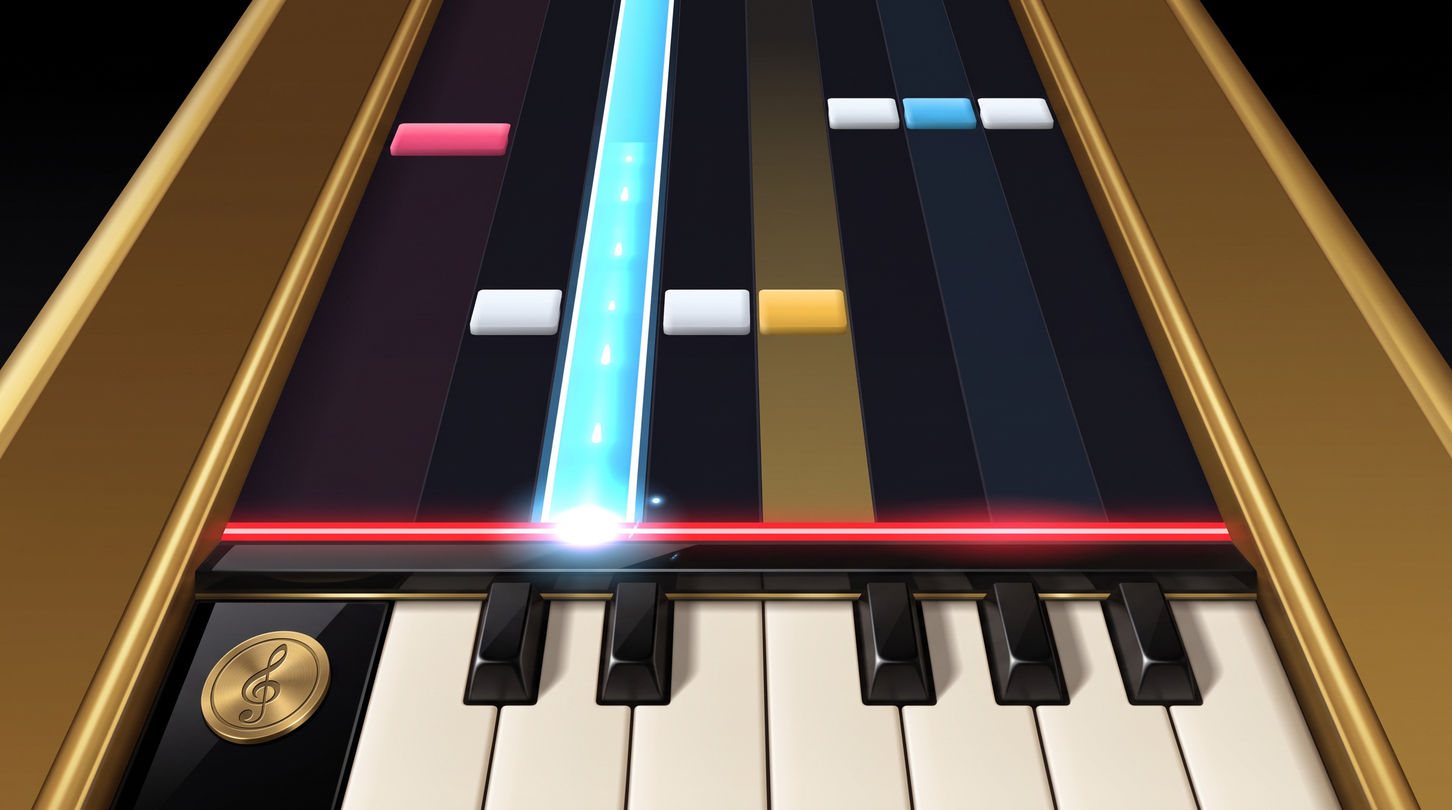
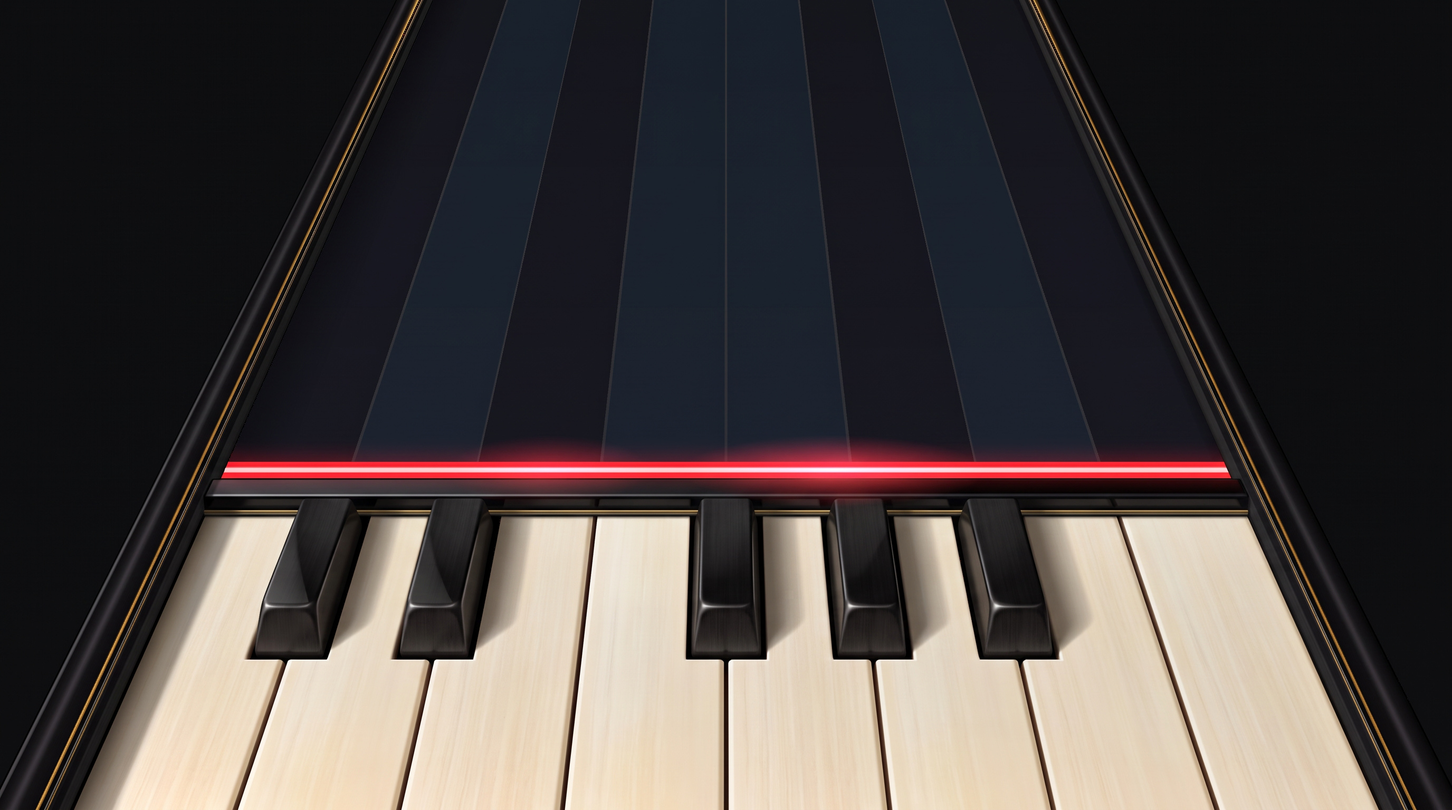
The piano's deck picture is painted again for 8K: eight white keys from wall to wall
The picture was painted over 7K+1S's row (a cheek block with a medallion, then seven keys), a
row no key mode has since that mode went, so the piano's deck was drawn in code everywhere.

- The deck painted again by the image model over this game's 8K frame (SDVX, 16:9) with the
  deck drawn in code: eight ivory keys, the five black keys of an octave, the brass inlay under
  the lip. No medallion: it stood on the scratch lane's cheek block, and 8K's keys fill the deck.
- Laid flat as 2048 x 827, as deep as the screen shows the deck now (it was 2048 x 541). Where the
  deck plane lies on the screen was measured from a frame with a grid of dots laid as the deck's
  picture; the white keys' gaps lie within a pixel of the lanes' boundaries.
- deckArt: the picture is laid on 8K's row only (PICTURE_ROWS); the keys held down and the
  inlay's lights are placed by the new picture (the black keys end at 463 of its rows).
- build_gears.py reads a deck's own inset from deck.json (the piano's 0: laid from wall to wall).
- The other key modes, the plane camera and every other gear are drawn as before.
- Before and after frames: design-mockups/gear-concepts/piano-8k. Docs and provenance updated.

Claude-Session: https://claude.ai/code/session_01NJ81Brr5tCyummEicE23PB

diff --git a/client/src/render/styleArt.test.ts b/client/src/render/styleArt.test.ts
@@ -357,20 +357,46 @@ describe.each(GEAR_STYLES.filter((gear) => !['prism', 'sky', 'fire', 'gpt', 'gem
     expect(Object.keys(gearArtOf(gear, images)).sort()).toEqual(Object.keys(GEAR_PICTURES[gear]).sort());
   });
 
-  it('draws its deck in code on every row the game has: its picture was painted over 7K+1S’s row', () => {
-    // a small preview's, SDVX's, FLAT's, the flattest perspective camera's, the plane camera's
+  it('lays its whole deck from its picture on the perspective cameras, as long along the track as they flatten it', () => {
+    const [pw, ph] = manifest.textures[deck].size;
+    // the picture shows the deck as deep as SDVX's camera does on a 16:9 screen
+    expect([pw, ph]).toEqual([2048, 827]);
+    // a small preview's, SDVX's, FLAT's, the flattest camera it is drawn on
     for (const [room, stretch] of [
       [96, 1.1],
-      [192, 1.25],
+      [240, 1.2],
       [320, 1.25],
       [140, 2],
-      [912, 3.25],
     ]) {
+      const spec = deckSpec(room, stretch);
       const { g, draws } = recorder();
-      platePaintOf(style, images)(g, deckSpec(room, stretch));
-      expect(draws, `${room}`).toEqual([]);
+      platePaintOf(style, images)(g, spec);
+      // the picture alone: nothing drawn over it
+      expect(draws.map((d) => d.id).every((id) => id === deck), `${room}`).toBe(true);
+      const [whole, ...rest] = draws;
+      expect([whole.x, whole.y, whole.w]).toEqual([0, 0, spec.width]);
+      // painted from SDVX's camera on a 16:9 screen (a 1.2 stretch): longer on a camera flattening it more
+      expect(whole.h / whole.w).toBeCloseTo(((ph / pw) * stretch) / 1.2, 9);
+      // the keys run on in the picture's last row where the screen shows more of them
+      if (whole.h < spec.depth) {
+        expect(rest).toHaveLength(1);
+        expect([rest[0].sy, rest[0].sh, rest[0].x, rest[0].w]).toEqual([ph - 1, 1, 0, spec.width]);
+        expect(rest[0].y).toBeCloseTo(whole.h, 9);
+        expect(rest[0].y + rest[0].h).toBeCloseTo(spec.depth, 9);
+      } else expect(rest).toEqual([]);
     }
-    expect(deck).toBe(`${gear}/deck`);
+    // the plane camera sees the deck from too far off the angle it was painted from: there it is drawn in code
+    const plane = recorder();
+    platePaintOf(style, images)(plane.g, deckSpec(912, 3.25));
+    expect(plane.draws).toEqual([]);
+    // and so is a row of lanes it was not painted over (4K's four keys), on any camera
+    const four = recorder();
+    platePaintOf(style, images)(four.g, { ...deckSpec(240, 1.2), lanes: (['white', 'other', 'other', 'white'] as const).map((kind, i) => ({ left: (i * 8 * 73.65) / 4, width: (8 * 73.65) / 4, kind })) });
+    expect(four.draws).toEqual([]);
+    // without its picture the same gear is drawn in code
+    const code = recorder();
+    platePaintOf(style, {})(code.g, deckSpec(240, 1.2));
+    expect(code.draws).toEqual([]);
   });
 
   it('frames the track in its own frame, as wide as it is, with a look of its own in FEVER', () => {

diff --git a/client/src/render/deckArt.test.ts b/client/src/render/deckArt.test.ts
@@ -190,7 +190,7 @@ describe('the decks of the gears a player picks', () => {
         expect(keys.map((k) => k.lane)).toEqual([0, 1, 2, 3, 4, 5, 6, 7]);
         // where the keys start: under the plate's lip, or as the picture drew them (26 of its 2048 px, laid as long as the camera flattens it)
         const top = pictured ? ((26 * s.width) / 2048) * (stretch / 1.2) : 3.2 * stretch + 1.2;
-        const blackEnd = pictured ? ((299 * s.width) / 2048) * (stretch / 1.2) : top - 0.6 + (room - top) * 0.58;
+        const blackEnd = pictured ? ((463 * s.width) / 2048) * (stretch / 1.2) : top - 0.6 + (room - top) * 0.58;
         keys.forEach((k, i) => {
           const lane = s.lanes[k.lane];
           expect(k.box.x).toBeCloseTo(lane.left + 0.55, 9);
@@ -620,17 +620,19 @@ describe('the decks of the gears a player picks', () => {
     expect(level).toBeLessThan(0.01);
   });
 
-  it('lays a deck picture only where it was painted for: a camera near its angle, and PIANO’s on no row the game has (it was painted for 7K+1S)', () => {
-    const deck = { width: 2048, height: 541 } as Picture;
+  it('lays a deck picture only where it was painted for: a camera near its angle, and PIANO’s only on 8K’s row of eight keys', () => {
+    const deck = { width: 2048, height: 827 } as Picture;
     for (const gear of GEAR_STYLES) {
-      for (const mode of ['4K', '5K', '8K', '6K+FX'] as KeyModeId[]) {
-        const s = spec(155.55, 1.2, mode);
-        expect(deckFromPicture(gear, s, { deck }), `${gear} ${mode}`).toBe(gear !== 'piano');
+      for (const mode of ['4K', '4K+FX', '5K', '6K', '6K+FX', '8K'] as KeyModeId[]) {
+        const s = spec(240, 1.2, mode);
+        expect(deckFromPicture(gear, s, { deck }), `${gear} ${mode}`).toBe(gear !== 'piano' || mode === '8K');
         expect(deckFromPicture(gear, s, {}), `${gear} ${mode} without its picture`).toBe(false);
         expect(deckFromPicture(gear, spec(912, DECK_PICTURE_FLATTEST + 0.1, mode), { deck }), `${gear} ${mode} on the plane camera`).toBe(false);
       }
       // side lanes laid over the keys: the six key lanes share the deck, not the picture's row
-      expect(deckFromPicture(gear, { ...spec(155.55, 1.2, '6K+FX'), lanes: deckLanes('6K+FX', 'half') }, { deck })).toBe(gear !== 'piano');
+      expect(deckFromPicture(gear, { ...spec(240, 1.2, '6K+FX'), lanes: deckLanes('6K+FX', 'half') }, { deck })).toBe(gear !== 'piano');
+      // 6K+FX with a place for each side lane has eight lanes too, two of them cheek blocks: not the picture's row
+      expect(deckLanes('6K+FX')).toHaveLength(8);
     }
   });
 

diff --git a/client/src/render/deckArt.ts b/client/src/render/deckArt.ts
@@ -744,7 +744,7 @@ export interface DeckKey {
 }
 
 /** Where PIANO's deck picture has its keys (px of the picture, `width` across): the white keys from under the lip, the black keys' near ends (build_gears.py lays it flat). */
-const PIANO_PICTURE_KEYS = { width: 2048, top: 26, blackEnd: 299 } as const;
+const PIANO_PICTURE_KEYS = { width: 2048, top: 26, blackEnd: 463 } as const;
 
 /**
  * The keys of `style`'s deck that go down with their lanes (none but PIANO's white keys), where the
@@ -3242,8 +3242,8 @@ export const DECK_PICTURE_FLATTEST = 2;
  * keys): its picture is laid only on a deck whose lanes are those, any other row drawn in code.
  */
 const PICTURE_ROWS: Partial<Record<GearStyle, (s: Pick<DeckSpec, 'lanes' | 'sides'>) => boolean>> = {
-  // its picture was painted over 7K+1S's row (the scratch lane's cheek block, then seven white keys), a row no key mode has
-  piano: () => false,
+  // 8K: eight white keys from wall to wall
+  piano: (s) => s.sides.length === 0 && s.lanes.length === 8 && s.lanes.every((l) => !l.side),
 };
 
 /** Whether a gear's deck is laid from its picture: one loaded, a camera near the picture's angle, and a row of lanes it was painted for. */

diff --git a/client/src/render/gearLights.test.ts b/client/src/render/gearLights.test.ts
@@ -2,7 +2,7 @@ import { describe, expect, it } from 'vitest';
 import { GEAR_STYLES, paintDeck, PANEL_MARKS, type DeckMark, type DeckSpec } from './deckArt';
 import { beatClock, DECK_PICTURE_PX, GEAR_LIGHTS, type BeatClock } from './gearLights';
 
-/** The deck pictures' rows (2048 across, the SDVX 16:9 room: build_gears.py). */
+/** The rows every deck's lights lie in (deck picture px, 2048 across: the shallowest deck's picture has as many). */
 const PICTURE_ROWS = 541;
 
 /** A 2D context that takes every call and does nothing (a paint's marks are what is read). */

diff --git a/scripts/assets/build_gears.py b/scripts/assets/build_gears.py
@@ -192,13 +192,15 @@ def cut_keyed(a: np.ndarray, size: int) -> np.ndarray:
 
 def deck_flat(src: Path, meta: dict, width_px: int = 2048, inset: float = 1.5) -> np.ndarray:
     """A gear's deck laid flat from its generation (see the module's doc): `width_px` texels across the
-    deck (`meta["width"]` plane px, sampled `inset` plane px clear of the walls' foot), as many along it
-    as `meta["room"]` plane px down from the deck's top edge (`meta["top"]` under the judge line) take;
-    `meta["h"]`: row-major 3×3 homography from deck plane px (across from the track's middle, toward
-    the camera from the judge line) to the generation's px."""
+    deck (`meta["width"]` plane px, sampled `inset` plane px clear of the walls' foot; `meta["inset"]`
+    where the deck has its own: the piano's 0, its keys' gaps lying on the lanes' boundaries from wall
+    to wall), as many along it as `meta["room"]` plane px down from the deck's top edge (`meta["top"]`
+    under the judge line) take; `meta["h"]`: row-major 3×3 homography from deck plane px (across from
+    the track's middle, toward the camera from the judge line) to the generation's px."""
     img = load(src)
     h = np.array(meta["h"], dtype=np.float64).reshape(3, 3)
     width, top, room = meta["width"], meta["top"], meta["room"]
+    inset = meta.get("inset", inset)
     k = width_px / width
     rows = int(round(room * k))
     u = (np.arange(width_px) + 0.5) / k

diff --git a/README.md b/README.md
@@ -58,7 +58,7 @@
 - [x] **6키 ELITE를 플레이어 자리에서** — 구간마다 한 악기 줄기(드럼 · 베이스 · 선율)를 따르고(4마디 안에서 키음의 악기가 바뀌지 않게; 선율 아래 정박의 킥은 보조), 음악이 치는 첫 박에는 꼭 노트를 두며, 롱노트는 드럼 소리 · 다시 치는 소리 · 잔향 위에 두지 않고 손마다 하나씩. BMS 60곡 6K ELITE에서 4마디 창의 우세 악기 몫 0.57 → 0.73(사람 0.77), 첫 박 노트 0.86 → 0.93(사람 0.90), 곡당 롱노트 30 → 6(동시 1개 93%).
 - [x] **로딩 시간 줄이기** — 결과(분석 · 채보 · 스템)는 바이트 단위로 그대로 두고, 템포 맞춤을 한 번에, 분석 단계를 나란히, 업로드한 오디오로 분석을 바로 시작, 채보를 작업 프로세스에서 난이도끼리 나란히(분석이 끝나면 마지막 키 모드로 미리), 스템 파일을 나란히 씀. 4분 곡(4코어)을 올린 뒤 곡 준비 6.2 → 3.1초, 고른 난이도 채보 10.6 → 5.5초, 다섯 난이도 레벨 17.5 → 5.7초, 키음 플레이 준비 19.5 → 7.9초(`docs/PATTERN_DESIGN.md` 89장)
 - [x] **스템 분리기 BS-RoFormer SW (GPU)** — GPU가 있으면 스템 분리를 Demucs 6스템 대신 BS-RoFormer SW로 함(공개 점수로 기타 SDR 5.22 → 9.05dB). Windows ML판은 CUDA 없이 ONNX Runtime DirectML로 DirectX 12 GPU(전용 메모리 2GB 이상)에서 돌리고, GPU가 없거나 실패하면 Demucs로. 가중치는 비상업 라이선스(`docs/PATTERN_DESIGN.md` 97 · 98장)
-- [x] **7K+1S 모드 · 스크래치 레인 없앰** (2026-11-17) — 사용자의 결정으로 7K+1S 모드와 스크래치 레인을 없앰. 남은 키 모드는 4K · 4K+FX · 5K · 6K · 6K+FX · 8K. BMS·bmson 가져오기는 스크래치 없는 5키 채보만(7키 채보와 스크래치가 있는 채보는 거절), 내보내기는 5K만, osu!mania 7키는 거절. 저장돼 있던 7K+1S 채보와 기록은 디스크에 그대로 두되 목록에 나오지 않음(선곡 화면에 "7K+1S 채보 N개 · 플레이 불가" 칩). 스크래치 노트를 그리던 코드와 노트 그림의 스크래치 줄도 같은 날 지움. 기어 그림의 스크래치 부분(피아노의 메달과 7K+1S에 맞춰 그린 받침 그림)은 쓰이지 않는 채로 남아 있음
+- [x] **7K+1S 모드 · 스크래치 레인 없앰** (2026-11-17) — 사용자의 결정으로 7K+1S 모드와 스크래치 레인을 없앰. 남은 키 모드는 4K · 4K+FX · 5K · 6K · 6K+FX · 8K. BMS·bmson 가져오기는 스크래치 없는 5키 채보만(7키 채보와 스크래치가 있는 채보는 거절), 내보내기는 5K만, osu!mania 7키는 거절. 저장돼 있던 7K+1S 채보와 기록은 디스크에 그대로 두되 목록에 나오지 않음(선곡 화면에 "7K+1S 채보 N개 · 플레이 불가" 칩). 스크래치 노트를 그리던 코드와 노트 그림의 스크래치 줄도 같은 날 지움. 기어 쪽의 스크래치 부분(피아노의 높은음자리표 메달과 그 불빛, 아쿠아 건반의 분홍 줄)도 같은 날 지웠고, 7K+1S 줄에 맞춰 그렸던 피아노의 받침 그림은 8K 줄(흰 건반 여덟)에 맞춰 다시 그림
 
 ## 준비물
 
@@ -161,7 +161,7 @@ cd desktop && npm install && npm start   # 개발용: 저장소의 Python 서버
 - **키음**(설정, 기본 켬): 생성 채보도 노트마다 소리가 붙습니다. 노트가 따르는 악기(스템)를 노트부터 그 악기의 다음 노트까지 잘라 그 노트의 키음으로 쓰고, 배경음에서는 그 부분을 뺍니다. 치면 그 소리가 나고 놓치면 빠지며, 전부 맞히면 원곡이 그대로 이어집니다(DJMAX처럼). 키음은 원곡의 그 악기보다 1.2배 크게 나서 친 소리가 곡 위로 조금 드러나고, 그렇게 커진 소리가 출력 한계를 넘는 순간은 출력 직전의 리미터가 부드럽게 눌러 깨지지 않게 합니다(0.9까지는 그대로, 지연 없음). 노트가 없을 때 누르면(고스트 노트) 그 레인의 다음 노트 소리 앞부분이 곡 위에 짧게 납니다. 노트의 10% 이상이 따르는 악기만 키음이 되고(곡 정보·도구 → 채보의 악기 비율에 표시), 나머지는 배경음에 남습니다. 스템은 분석이 끝난 뒤 백그라운드에서 나누어 저장하므로(4분 곡 4코어에서 약 7초, 곡당 디스크 약 100MB) 분석 직후 바로 플레이하면 처음 한 번은 기다릴 수 있습니다. 연습 모드의 재생 속도에서도 함께 스트레치됩니다.
 - **배경**: 흐린 앨범아트가 깔립니다. 선곡 화면의 커버 왼쪽 아래 **배경 영상**(V)에서 mp4·webm 영상을 고르거나, **유튜브 링크**를 눌러 나오는 칸에 주소를 붙여 넣고 **등록**하면 배경 영상(BGA)이 되어 소리 없이 곡 시간에 맞춰 재생하고, 같은 곳의 **영상 싱크**(←→ 10ms, Shift+←→ 100ms)로 영상을 곡에 맞출 수 있습니다. 유튜브 영상은 내려받지 않고 유튜브 플레이어로 재생하므로 인터넷이 필요하고, 퍼가기를 막은 영상은 나오지 않으며, 광고가 먼저 나올 수 있습니다. 배경 밝기와 BGA는 설정 → 연출·배경에서 바꿉니다.
 - **카메라 연출**: 에너지가 크게 오르는 곳(드롭·후렴 시작)에서 줌 펄스, 에너지가 높은 구간마다 트랙이 좌우로 번갈아 기울어집니다. 줌과 기울기는 판정선 가운데를 중심으로 걸려 판정선은 제자리에 있고, 콤보·판정 글자도 트랙과 같이 기울고 움직입니다. 설정에서 세기를 0–100%로 조절하거나 끌 수 있고, "번쩍임 줄이기"를 켜면 절반으로 줄어듭니다. 판정·노트 시간에는 영향이 없습니다.
-- **트랙과 부위**: 트랙은 한 가지 모습(기본)을 코드로 그립니다(예전의 트랙 스킨 9종 · 모노(고대비) · JSON 사용자 스킨과 설정 → 기어의 색상(색각 보정)은 없앴고, 저장돼 있던 값은 불러올 때 버립니다). 노트 · 사이드 노트는 설정 → **노트**에서, **기어** · 타격 효과는 설정 → **기어**에서 고릅니다(처음에는 기본 노트 · 기본 사이드 노트 · 기본 기어 · 플래시). 판정·콤보 글꼴은 기어를 따르고, 설정 → 기어 → **판정·콤보 글꼴**을 기본으로 하면 기어와 상관없이 흰 장체에 MAX를 하늘색으로 씁니다. **노트**는 기본 막대와 스킨 열둘의 노트입니다(크리스털 · 하늘 · 파이어스타터 · GPT · Gemini · Grok · Claude · 아쿠아 · 스틸 · 레드라인 · 화이트 라인 · 별밤; GPT · Gemini · Grok · Claude는 그 회사의 로고 모양이고 나머지는 막대). 레인 색을 입히는 틴트 그림이라 노트 색상이 그대로 적용됩니다. 기어 없이 노트만 있던 열(질감 막대 크롬 베벨 · 헤어라인 · 유리 · 에나멜 · 펄 · 카본, 메카 챔퍼 · 원형 · 별 4각 · 별 5각)은 없앴고(2026-11-17, 사용자의 결정), 그 전에 피아노 노트도 없앴습니다(골라 둔 값은 기본 노트로; 타격 효과는 모두 남음). 모두 레인 폭에 맞고, 로고 노트는 판정선에서 제 모양으로 보이도록 카메라에 맞춰 트랙 방향으로 늘려 그립니다. 노트와 롱노트는 두께가 있는 입체로 그려(윗면 아래로 옆면이 보이고, 왼쪽 위에서 오는 빛에 옆면은 아래로 갈수록 어둡고 왼쪽이 조금 밝음) 기어처럼 판정선 위를 미끄러져 오는 물건으로 보이고, 기본 노트는 윗면에 광택과 밝은 앞 모서리가, 기본 롱노트는 왼쪽이 밝은 둥근 막대 음영이 있습니다(원근 카메라에서만 옆면이 보이고, 위에서 내려다보는 평면 카메라에서는 윗면만). **롱노트**는 몸통만 그리고 시작·끝에 단노트를 두지 않습니다. 노트마다 제 롱노트의 끝 모양으로 닫습니다(로고 노트 넷은 끝이 둥근 캡슐). 판정선은 어느 기어에서나 같은 자리(화면 높이의 72%)의 굵은 붉은 선(16px, 밝은 심과 위아래로 퍼지는 붉은 빛)이고, 판정 순간 노트의 가운데가 판정선 가운데에 옵니다. DJMAX처럼 기어 받침은 판정선보다 조금 아래(40px)에서 시작하고 그 사이로 레인이 이어져, 놓친 노트는 판정선을 지나 받침 밑으로 사라집니다. 평면 카메라처럼 트랙을 눌러 보이는 카메라에서도 판정선과 그 간격은 같은 두께로 보입니다. 판정선 위치를 올리면 판정선만 올라가고 기어는 화면 아래 제자리에 그대로 있으며, 올라간 판정선과 기어 사이는 노트 등장 위치와 같은 커버로 덮입니다. −20%로 내리면 판정선이 기어에 붙습니다. **기어**는 이름 붙일 수 있는 사물 하나로, 판정선 아래 받침, 트랙의 좌우 테두리(트랙 끝부터 기어 아래까지, 기어마다 제 폭과 높이), 게이지 · 점수판 하우징 · 숫자 글꼴을 함께 정합니다. 테두리는 트랙 옆에 선 벽이라 레인 쪽 안쪽 면이 보이고(왼쪽 위에서 오는 빛에 왼쪽 벽은 그늘, 오른쪽 벽은 밝게), 벽은 레인과 받침에 그림자를 드리웁니다. 받침은 원근 카메라(약한 원근 · SDVX · 강한 원근)에서 기어마다 받침 전체를 게임 카메라의 원근으로 그린 그림 한 장이라, 부품이 받침에서 서 있고 그 그림자가 같은 원근으로 떨어집니다(그린 카메라보다 받침을 납작하게 보는 카메라에서는 그만큼 트랙 방향으로 늘여 깔고, 4:3처럼 받침이 더 보이는 화면에서는 그림의 아래 끝을 이어 그림). 위에서 내려다보는 평면 카메라에서는 받침을 위에서 본 부품 그림과 코드로 그리고, 부품이 판 위에 그림자를 드리웁니다(모두 한 번만 그리는 그림이라 플레이 중 비용은 없음, 평면 카메라에서는 벽의 안쪽 면이 보이지 않음). 레인은 이미 나뉘어 있으므로 받침에 레인마다의 버튼을 두지 않고 그 사물답게 꾸밉니다(누른 레인은 키빔과 타격 효과로 보이고, 받침은 키 모드와 상관없이 같음; 피아노만 건반이 레인을 따르고 누른 레인의 건반이 눌림). 받침과 부품은 그림으로, 재질은 코드로 그립니다: **기본**(그래파이트 테두리에 하늘색 선 하나, 스모크 유리 받침에 유리 조그 원판 · 'GENERATIVE RHYTHM' 각인과 하늘색 빛줄 · 스피커 그릴; 흰 장체 숫자와 하늘색 게이지 칸), **피아노**(그랜드 피아노의 건반 끝: 광택 흑단 래커, 테두리는 피아노의 림처럼 흑단 래커에 레인 쪽 황동 선, 받침은 판정선 쪽 래커 턱의 황동 상감선 바로 밑에서 건반이 시작하고(이름판 없음) 건반 레인마다 상아색 흰 건반 하나 · 그 사이에 옥타브대로 검은 건반(왼쪽 첫 건반을 도로) · 따로 선 사이드 레인 아래는 치크 블록, 키를 누르는 동안 그 레인의 흰 건반이 눌려 내려가 보이고(어두워지며 왼쪽 이웃 건반의 그림자와 오른쪽 틈, 먼 끝은 턱의 그늘; 떼면 곧 올라옴, 오토플레이도 같음); 악보의 셈여림 글씨 같은 보도니 굵은 이탤릭의 상아색 숫자와 황동 밑줄, 상아색 칸 위로 황동인 FORTE 게이지, 점수판은 흑단 판 아래 건반 띠. 받침 그림은 2026-11-17에 없앤 7K+1S에 맞춰 그린 것이라 이제 어느 키 모드에도 깔지 않고, 받침은 언제나 코드로 레인 수만큼 건반을 그림). 오락실 기체 · 빈티지 리시버 · 나전칠기 · 커스텀 키보드 · 레이싱 휠 · 우주선 계기판 · 달 기어는 없앴습니다(2026-11-13, 사용자의 결정: 예전 기어 가운데 피아노만 남김; 골라 둔 값은 기본 기어로). 피버 때는 테두리의 불빛이 켜집니다(기본은 하늘색 선, 피아노는 황동 선; 받침은 그대로). 기어는 곡의 마디와 박자에 맞춰 움직입니다: 판정선 레이저의 빛이 흔들리며 빛의 두께가 일렁이고 밝은 점 둘이 선을 따라 서로 반대쪽으로 지나가며(선의 굵기와 자리는 그대로), 마디마다 빛이 테두리를 따라 트랙 끝에서 기어 쪽으로 지나갑니다(테두리의 FEVER 불빛을 띠로 보여 줌). 받침에서는 기본의 조그 링 · 빛줄 · 스피커 구멍(센박에), 피아노의 황동 상감선(마디마다 빛이 지나가고 FEVER 때 따뜻하게 빛남) · 메달(박자에 은은하게, 마디 첫 박에 반짝임)이 켜집니다(피아노의 건반에는 불빛 대신 누른 레인의 건반이 눌림). 받침 그림에 겹친 빛 조각이라 플레이 중 비용은 거의 없습니다(받침은 다시 칠하지 않음). 평면 카메라에서는 코드로 그린 받침의 같은 부품에 켜지고, 번쩍임 줄이기를 켜면 깜빡임 없이 천천히 은은하게만 움직입니다. 롱노트는 늘 고른 노트의 것이고, 사이드 노트는 기본(비치는 막대)과 도트 매트릭스 중에서 고릅니다. **컨셉 세트** 다섯은 타격 효과만 남았습니다(세트의 노트 · 롱노트 · 사이드 막대는 없앰). **메카 섬광**은 흰 섬광과 금속 파편·불똥이 판정선에서 사방으로 튀고 롱노트를 누르는 동안 용접 불꽃이 사방으로 튑니다. **클럽 링**은 레코드 홈 같은 동심 고리가 판정선을 중심으로 퍼집니다. **크리스털 파편**은 파편과 반짝임이 주로 기어 쪽으로 쏟아집니다. **네온 아크**는 깜빡이는 전기 아크입니다. **피아노 음표**는 음파 고리와 함께 음표가 사방으로 튀어 나가고 롱노트를 누르는 동안 음표가 반짝입니다. 레인 색은 게임이 입히고, 그림을 못 불러오면 코드로 그린 모양으로 대신합니다. 기어는 저마다 한 가지 모습입니다(기어 색은 고르지 않음). 카메라는 따로 고릅니다(설정 → 기어 → 카메라: **평면** · 약한 원근 · SDVX(기본) · 강한 원근). 평면은 원근이 없어 레일이 나란하고 노트가 화면 위에서 아래까지 같은 빠르기로 내려옵니다. 설정의 미리보기 기어에서 바로 보입니다. 레인 색은 설정 → 노트의 노트 색상을 따르고, 기본이면 트랙의 색입니다.
+- **트랙과 부위**: 트랙은 한 가지 모습(기본)을 코드로 그립니다(예전의 트랙 스킨 9종 · 모노(고대비) · JSON 사용자 스킨과 설정 → 기어의 색상(색각 보정)은 없앴고, 저장돼 있던 값은 불러올 때 버립니다). 노트 · 사이드 노트는 설정 → **노트**에서, **기어** · 타격 효과는 설정 → **기어**에서 고릅니다(처음에는 기본 노트 · 기본 사이드 노트 · 기본 기어 · 플래시). 판정·콤보 글꼴은 기어를 따르고, 설정 → 기어 → **판정·콤보 글꼴**을 기본으로 하면 기어와 상관없이 흰 장체에 MAX를 하늘색으로 씁니다. **노트**는 기본 막대와 스킨 열둘의 노트입니다(크리스털 · 하늘 · 파이어스타터 · GPT · Gemini · Grok · Claude · 아쿠아 · 스틸 · 레드라인 · 화이트 라인 · 별밤; GPT · Gemini · Grok · Claude는 그 회사의 로고 모양이고 나머지는 막대). 레인 색을 입히는 틴트 그림이라 노트 색상이 그대로 적용됩니다. 기어 없이 노트만 있던 열(질감 막대 크롬 베벨 · 헤어라인 · 유리 · 에나멜 · 펄 · 카본, 메카 챔퍼 · 원형 · 별 4각 · 별 5각)은 없앴고(2026-11-17, 사용자의 결정), 그 전에 피아노 노트도 없앴습니다(골라 둔 값은 기본 노트로; 타격 효과는 모두 남음). 모두 레인 폭에 맞고, 로고 노트는 판정선에서 제 모양으로 보이도록 카메라에 맞춰 트랙 방향으로 늘려 그립니다. 노트와 롱노트는 두께가 있는 입체로 그려(윗면 아래로 옆면이 보이고, 왼쪽 위에서 오는 빛에 옆면은 아래로 갈수록 어둡고 왼쪽이 조금 밝음) 기어처럼 판정선 위를 미끄러져 오는 물건으로 보이고, 기본 노트는 윗면에 광택과 밝은 앞 모서리가, 기본 롱노트는 왼쪽이 밝은 둥근 막대 음영이 있습니다(원근 카메라에서만 옆면이 보이고, 위에서 내려다보는 평면 카메라에서는 윗면만). **롱노트**는 몸통만 그리고 시작·끝에 단노트를 두지 않습니다. 노트마다 제 롱노트의 끝 모양으로 닫습니다(로고 노트 넷은 끝이 둥근 캡슐). 판정선은 어느 기어에서나 같은 자리(화면 높이의 72%)의 굵은 붉은 선(16px, 밝은 심과 위아래로 퍼지는 붉은 빛)이고, 판정 순간 노트의 가운데가 판정선 가운데에 옵니다. DJMAX처럼 기어 받침은 판정선보다 조금 아래(40px)에서 시작하고 그 사이로 레인이 이어져, 놓친 노트는 판정선을 지나 받침 밑으로 사라집니다. 평면 카메라처럼 트랙을 눌러 보이는 카메라에서도 판정선과 그 간격은 같은 두께로 보입니다. 판정선 위치를 올리면 판정선만 올라가고 기어는 화면 아래 제자리에 그대로 있으며, 올라간 판정선과 기어 사이는 노트 등장 위치와 같은 커버로 덮입니다. −20%로 내리면 판정선이 기어에 붙습니다. **기어**는 이름 붙일 수 있는 사물 하나로, 판정선 아래 받침, 트랙의 좌우 테두리(트랙 끝부터 기어 아래까지, 기어마다 제 폭과 높이), 게이지 · 점수판 하우징 · 숫자 글꼴을 함께 정합니다. 테두리는 트랙 옆에 선 벽이라 레인 쪽 안쪽 면이 보이고(왼쪽 위에서 오는 빛에 왼쪽 벽은 그늘, 오른쪽 벽은 밝게), 벽은 레인과 받침에 그림자를 드리웁니다. 받침은 원근 카메라(약한 원근 · SDVX · 강한 원근)에서 기어마다 받침 전체를 게임 카메라의 원근으로 그린 그림 한 장이라, 부품이 받침에서 서 있고 그 그림자가 같은 원근으로 떨어집니다(그린 카메라보다 받침을 납작하게 보는 카메라에서는 그만큼 트랙 방향으로 늘여 깔고, 4:3처럼 받침이 더 보이는 화면에서는 그림의 아래 끝을 이어 그림). 위에서 내려다보는 평면 카메라에서는 받침을 위에서 본 부품 그림과 코드로 그리고, 부품이 판 위에 그림자를 드리웁니다(모두 한 번만 그리는 그림이라 플레이 중 비용은 없음, 평면 카메라에서는 벽의 안쪽 면이 보이지 않음). 레인은 이미 나뉘어 있으므로 받침에 레인마다의 버튼을 두지 않고 그 사물답게 꾸밉니다(누른 레인은 키빔과 타격 효과로 보이고, 받침은 키 모드와 상관없이 같음; 피아노만 건반이 레인을 따르고 누른 레인의 건반이 눌림). 받침과 부품은 그림으로, 재질은 코드로 그립니다: **기본**(그래파이트 테두리에 하늘색 선 하나, 스모크 유리 받침에 유리 조그 원판 · 'GENERATIVE RHYTHM' 각인과 하늘색 빛줄 · 스피커 그릴; 흰 장체 숫자와 하늘색 게이지 칸), **피아노**(그랜드 피아노의 건반 끝: 광택 흑단 래커, 테두리는 피아노의 림처럼 흑단 래커에 레인 쪽 황동 선, 받침은 판정선 쪽 래커 턱의 황동 상감선 바로 밑에서 건반이 시작하고(이름판 없음) 건반 레인마다 상아색 흰 건반 하나 · 그 사이에 옥타브대로 검은 건반(왼쪽 첫 건반을 도로) · 따로 선 사이드 레인 아래는 치크 블록, 키를 누르는 동안 그 레인의 흰 건반이 눌려 내려가 보이고(어두워지며 왼쪽 이웃 건반의 그림자와 오른쪽 틈, 먼 끝은 턱의 그늘; 떼면 곧 올라옴, 오토플레이도 같음), 8K에서는 원근 카메라(약한 원근 · SDVX · 강한 원근)에서 받침 전체가 게임 카메라로 그린 그림 한 장이며(2026-11-17에 8K의 건반 여덟에 맞춰 다시 그림: 입체로 선 검은 건반과 그림자, 흰 건반의 틈은 레인 경계 위) 다른 키 모드와 평면 카메라에서는 코드로 레인 수만큼 건반을 그림; 악보의 셈여림 글씨 같은 보도니 굵은 이탤릭의 상아색 숫자와 황동 밑줄, 상아색 칸 위로 황동인 FORTE 게이지, 점수판은 흑단 판 아래 건반 띠. 받침 그림은 2026-11-17에 없앤 7K+1S에 맞춰 그린 것이라 이제 어느 키 모드에도 깔지 않고, 받침은 언제나 코드로 레인 수만큼 건반을 그림). 오락실 기체 · 빈티지 리시버 · 나전칠기 · 커스텀 키보드 · 레이싱 휠 · 우주선 계기판 · 달 기어는 없앴습니다(2026-11-13, 사용자의 결정: 예전 기어 가운데 피아노만 남김; 골라 둔 값은 기본 기어로). 피버 때는 테두리의 불빛이 켜집니다(기본은 하늘색 선, 피아노는 황동 선; 받침은 그대로). 기어는 곡의 마디와 박자에 맞춰 움직입니다: 판정선 레이저의 빛이 흔들리며 빛의 두께가 일렁이고 밝은 점 둘이 선을 따라 서로 반대쪽으로 지나가며(선의 굵기와 자리는 그대로), 마디마다 빛이 테두리를 따라 트랙 끝에서 기어 쪽으로 지나갑니다(테두리의 FEVER 불빛을 띠로 보여 줌). 받침에서는 기본의 조그 링 · 빛줄 · 스피커 구멍(센박에), 피아노의 황동 상감선(마디마다 빛이 지나가고 FEVER 때 따뜻하게 빛남)이 켜집니다(피아노의 건반에는 불빛 대신 누른 레인의 건반이 눌림). 받침 그림에 겹친 빛 조각이라 플레이 중 비용은 거의 없습니다(받침은 다시 칠하지 않음). 평면 카메라에서는 코드로 그린 받침의 같은 부품에 켜지고, 번쩍임 줄이기를 켜면 깜빡임 없이 천천히 은은하게만 움직입니다. 롱노트는 늘 고른 노트의 것이고, 사이드 노트는 기본(비치는 막대)과 도트 매트릭스 중에서 고릅니다. **컨셉 세트** 다섯은 타격 효과만 남았습니다(세트의 노트 · 롱노트 · 사이드 막대는 없앰). **메카 섬광**은 흰 섬광과 금속 파편·불똥이 판정선에서 사방으로 튀고 롱노트를 누르는 동안 용접 불꽃이 사방으로 튑니다. **클럽 링**은 레코드 홈 같은 동심 고리가 판정선을 중심으로 퍼집니다. **크리스털 파편**은 파편과 반짝임이 주로 기어 쪽으로 쏟아집니다. **네온 아크**는 깜빡이는 전기 아크입니다. **피아노 음표**는 음파 고리와 함께 음표가 사방으로 튀어 나가고 롱노트를 누르는 동안 음표가 반짝입니다. 레인 색은 게임이 입히고, 그림을 못 불러오면 코드로 그린 모양으로 대신합니다. 기어는 저마다 한 가지 모습입니다(기어 색은 고르지 않음). 카메라는 따로 고릅니다(설정 → 기어 → 카메라: **평면** · 약한 원근 · SDVX(기본) · 강한 원근). 평면은 원근이 없어 레일이 나란하고 노트가 화면 위에서 아래까지 같은 빠르기로 내려옵니다. 설정의 미리보기 기어에서 바로 보입니다. 레인 색은 설정 → 노트의 노트 색상을 따르고, 기본이면 트랙의 색입니다.
 - **노트 색**(설정 → 노트, 노트 · 사이드 노트 줄 아래의 **노트 색상** 줄부터): 레인마다 노트 색을 정한 프리셋으로 노트·롱노트·레인 표시등·키 빔·트랙 바닥의 레인 색을 칠합니다. **기본**은 트랙의 기본 색이고, 게임에 든 프리셋은 **K/DA (POP/STARS)**(바이올렛·골드·네온 마젠타·시안), **K/DA (FIRESTARTER)**(스칼렛·아이보리·앰버·핫핑크·오키드), **오로라**(초록·청록·보라), **앰버**(따뜻한 색만, 파란빛 없음: 어두운 방용), **좌우 손**(왼손이 치는 레인은 파랑, 오른손은 주황, 가운데 흰색: 색각 이상이 있어도 구분되는 짝)입니다. 키 모드를 고르고 레인을 ←→로 고른 뒤 색 상자·색상 막대(마우스), HEX(`#rrggbb`), 색상·채도·밝기 줄(키보드·패드, Shift로 크게)로 바꾸면 고르는 동안 미리보기 기어에 바로 보이고, 놓거나 Enter를 누르면 저장됩니다. 기본이나 게임에 든 프리셋의 색을 바꾸면 그 프리셋은 그대로 두고 색을 복사한 **내 프리셋**(내 색 N, 20개까지)에 저장되며, 내 프리셋은 이름을 바꾸거나 지울 수 있습니다(3초 안에 두 번 눌러 삭제). 프리셋은 키 모드마다 레인 색을 따로 가집니다. 에디터의 레인도 같은 색입니다.
 - **타격 효과 크기**(설정 → 연출·배경: 크게 / 보통 / 작게 / 끄기): 타격·롱노트 효과는 판정선을 중심으로 위아래 모두 온전히 그리고, 바깥 레인에서는 레일(기어) 밖으로도 나갑니다(잘리지 않음). 크게는 보통의 1.4배, 작게는 약 1.2레인 폭 이내입니다. 모양은 설정 → 기어 → 타격 효과에서 고르고(처음에는 플래시), 9종 모두 그림으로 그린 플립북입니다: **플래시**(빛줄기 섬광과 판정선을 중심으로 퍼지는 충격파 고리), **플레어**(4방향 별빛과 레인을 가로지르는 렌즈 줄기), **거품**(물보라와 함께 튀어 나간 거품이 하나씩 터짐), **LED 그리드**(판정선을 중심으로 LED 칸에 사각 물결이 퍼짐)와 세트마다 하나(메카 섬광·클럽 링·크리스털 파편·네온 아크·피아노 음표). 롱노트를 누르는 동안은 효과마다 빛이 이어지고(LED 그리드는 판정선 위아래로 레벨 미터처럼 오르내림) 그 빛이 숨 쉬듯 커졌다 작아지며, 콤보가 오를 때마다(1/4박) 빛이 튀어 오르고 작은 타격 효과가 나며(0.18초에 한 번까지), 누르는 롱노트 몸통을 따라 레인 색 빛줄기가 판정선으로 흘러듭니다. 반쪽 덮기 사이드 노트를 치면 반쪽을 가로지르는 빛의 띠(흰 심과 위로 솟는 빛살)와 함께 반쪽 너비의 큰 타격 효과가 나고, 사이드 롱노트를 누르는 동안은 띠와 함께 반쪽 가운데에서 효과가 이어집니다. 번쩍임 줄이기를 켜면 숨쉬기·튀어 오름·콤보마다의 작은 효과는 없고 빛줄기도 흐립니다. 그림을 못 불러오면 코드로 그린 모양(세트의 효과는 플래시)으로 대신합니다.
 - **사이드 노트**(4K+FX · 6K+FX): DJMAX처럼 건반 레인의 절반을 덮는 반투명 막대(**반쪽 덮기**)로 그립니다. 사이드 레인이 폭을 차지하지 않아 건반 레인이 트랙 전체를 쓰고(4K·6K와 같은 자리), 왼쪽 사이드(FXL)는 왼쪽 절반, 오른쪽 사이드(FXR)는 오른쪽 절반을 사이드 레인 색으로 덮으며, 위에 오는 건반 노트는 늘 보입니다. 사이드 타격 효과는 그 절반 폭의 띠(크게면 높게, 작게면 낮게)이고, 누른 사이드는 그 절반 폭의 키빔으로 보입니다(기어 받침에는 표시등이 없음). 그리는 법만 다르고 판정·키·배치·점수·리플레이는 사이드 레인 그대로이며, 에디터는 사이드 노트를 양 끝 레인에 따로 보여 줍니다. 양 끝 좁은 레인에 따로 그리던 **별도 레인** 선택은 없앴습니다. **사이드 노트**(설정 → 노트)를 도트 매트릭스로 하면 LED 점으로 그리고, 노트의 시각에 놓인 줄이 가장 밝습니다.

diff --git a/docs/GEAR_NOTE_FX.md b/docs/GEAR_NOTE_FX.md
@@ -2,7 +2,7 @@
 
 2026-11-11, 브랜치 `claude/gear-notes-fx`. 조사와 사용자의 스킨 지침은 `docs/GEAR_NOTE_FX_RESEARCH.md`(지침은 7절), 시안과 그 출처는 `design-mockups/gear-concepts/`.
 
-2026-11-17에 7K+1S 모드와 스크래치 레인을 없앴습니다(키 모드는 4K · 4K+FX · 5K · 6K · 6K+FX · 8K). 그래서 어느 키 모드에도 스크래치 레인이 없고, 아래 스킨 표의 "스크래치는 …"(스크래치 단노트의 표시, 기어의 스크래치 자리)은 플레이어가 보는 것이 아니라 그때까지의 기록입니다. 스크래치 노트를 그리던 코드(`tintArt.ts`의 `NoteMark` `scratch`와 스킨마다의 스크래치 표시, `styleArt.ts`의 둘째 줄)와 `media/notes` 그림의 스크래치 줄은 같은 날 지웠습니다. 그림은 새로 만들지 않고 `scripts/assets/build_long_notes.py`가 원본 시트에서 건반 단노트만 다시 빌드했고(1024 × 256, 건반 줄은 전과 픽셀까지 같음), 원본 시트(`assets-src/styles/longs/`)에는 스크래치 단노트가 그대로 있습니다. 기어 그림의 스크래치 부분(`deckArt.ts`의 `KeyKind` `scratch`, 피아노의 높은음자리표 메달과 7K+1S 줄에 맞춰 그린 받침 그림)은 쓰이지 않는 채로 남아 있습니다. 스킨마다 한 장이던 7K+1S 스크린샷은 8K로 다시 찍어 파일 이름의 `-7k`를 `-8k`로 바꿨습니다(`44-prism-7k.png`만 그대로). 날짜가 붙은 절의 7K+1S · 스크래치는 그때 한 일의 기록입니다.
+2026-11-17에 7K+1S 모드와 스크래치 레인을 없앴습니다(키 모드는 4K · 4K+FX · 5K · 6K · 6K+FX · 8K). 그래서 어느 키 모드에도 스크래치 레인이 없고, 아래 스킨 표의 "스크래치는 …"(스크래치 단노트의 표시, 기어의 스크래치 자리)은 플레이어가 보는 것이 아니라 그때까지의 기록입니다. 스크래치 노트를 그리던 코드(`tintArt.ts`의 `NoteMark` `scratch`와 스킨마다의 스크래치 표시, `styleArt.ts`의 둘째 줄)와 `media/notes` 그림의 스크래치 줄은 같은 날 지웠습니다. 그림은 새로 만들지 않고 `scripts/assets/build_long_notes.py`가 원본 시트에서 건반 단노트만 다시 빌드했고(1024 × 256, 건반 줄은 전과 픽셀까지 같음), 원본 시트(`assets-src/styles/longs/`)에는 스크래치 단노트가 그대로 있습니다. 기어 쪽의 스크래치 부분(`deckArt.ts`의 `KeyKind` `scratch`, 피아노의 높은음자리표 메달과 그 불빛, 아쿠아 건반의 분홍 줄)도 같은 날 지웠고, 7K+1S 줄에 맞춰 그렸던 피아노의 받침 그림은 8K 줄에 맞춰 다시 그렸습니다(아래 "피아노 받침을 8K용으로 다시 그림"). 스킨마다 한 장이던 7K+1S 스크린샷은 8K로 다시 찍어 파일 이름의 `-7k`를 `-8k`로 바꿨습니다(`44-prism-7k.png`만 그대로). 날짜가 붙은 절의 7K+1S · 스크래치는 그때 한 일의 기록입니다.
 
 "스킨"은 기어·노트·타격 효과·콤보와 판정 글자를 묶어 가리킵니다(사이드 노트 제외). 좌측 상단 곡 정보는 어느 스킨에서도 그대로이고, 레인(트랙 바닥)도 어두운 바닥 그대로입니다(스킨이 받침의 그림을 레인에 아주 옅게 깔 수는 있습니다: 지금은 '하늘'만). **설정 → 기어 맨 위의 "스킨"** 한 줄로 한 번에 고릅니다(아래 "스킨 고르기").
 
@@ -724,6 +724,27 @@ Chromium의 추적(`contentTracing`)으로 래스터 작업 시간을, 페이지
 - 다른 모드의 탭을 고르면 떠나는 모드에서 키를 기다리던 레인은 기다림을 그만두고, 열려 있던 동시 입력 테스트 · 입력 확인은 닫힙니다.
 - **사용자가 정하지 않아 채워 넣은 것:** 모드와 상관없는 부분은 탭 밖 제자리에 두었습니다(키 설정의 "플레이 중 키"는 탭 아래, 게임패드의 연결 상태 · 턴테이블 감도 · 정지 판정은 탭 위, "플레이 중 버튼" · "메뉴 버튼"은 탭 아래). 오른쪽 미리보기는 전처럼 마지막에 플레이한 키 모드를 보여 줍니다(탭을 따라가지 않음).
 
+## 피아노 받침을 8K용으로 다시 그림 (2026-11-17)
+
+사용자의 요청입니다: "피아노 기어 받침은 8K용으로 다시 그려줘". 피아노의 받침 그림은 7K+1S 줄(스크래치 레인의 치크 블록과 메달 + 흰 건반 일곱)에 맞춰 그린 것이어서, 그 모드를 없앤 뒤로는 맞는 키 모드가 없어 피아노 받침이 어디서나 코드 그림이었습니다. 커밋은 둘입니다.
+
+### 1. 기어의 스크래치 잔재 지움
+
+- 지운 것: `KeyKind`의 `scratch`, 피아노의 높은음자리표 메달(코드로 그린 원판, 그림 `media/gears/piano/medallion.png`, 매니페스트의 `piano/medallion`, 메달의 불빛 둘, `build_gears.py`가 받침 그림에서 메달을 오리던 단계)과 메달만 쓰던 그리기 도구 넷, 아쿠아 건반의 분홍 줄(스크래치 레인의 건반에만 그리던 것).
+- 화면은 그대로입니다. 지운 것은 모두 스크래치 레인에서만 그려지던 것이라 어느 키 모드에서도 이미 보이지 않았습니다. 확인: 기어 14종 × 키 모드 6 × 사이드 노트 둘 × 화면 깊이 넷의 코드 받침을 지우기 전 커밋(`80c260a`)과 그리기 호출째로 견주어 672가지가 모두 같고, 기어의 불빛은 피아노(메달의 둘이 빠짐)만 다릅니다. 다른 기어의 그림 파일은 바이트까지 그대로입니다.
+- 남긴 것(스크래치 전용이 아니거나 제 담당이 아닌 것): 피아노의 사이드 레인 치크 블록(4K+FX · 6K+FX에서 사이드 노트가 제 레인을 가질 때 그려짐), 클럽 코인 시트 `styles/club/notes.png`의 넷째 칸(스크래치의 코인: 그리는 곳은 없지만 노트 그림이라 그대로 둠), 게임패드 입력 확인의 턴테이블 표시(`ui/PadInputTest.tsx`: 입력 쪽).
+
+### 2. 받침 그림을 8K 줄에 맞춰 다시 그림
+
+- 그림: 8K에서 코드 받침을 얹은 실제 화면(SDVX, 1920×1080)의 아래쪽을 기준 이미지로 받침 자리만 Gemini로 다시 칠했습니다. 흰 건반 여덟이 왼쪽 벽에서 오른쪽 벽까지, 검은 건반 다섯(도·레·파·솔·라 다음), 판정선 쪽에 황동 상감선. 생성은 두 번이고 한 장을 썼습니다(기록과 프롬프트 전문은 `assets-src/PROVENANCE.md`의 "피아노 기어").
+- **메달은 넣지 않았습니다.** 메달은 스크래치 레인의 치크 블록에 서 있던 것인데, 8K는 건반이 받침의 폭을 다 채워 놓을 자리가 없습니다.
+- 맞추기: 받침 평면이 화면 어디에 놓이는지는 점 격자를 받침 그림으로 깔아 찍은 화면에서 쟀습니다(오차 0.06px). 펴진 그림(2048×827)에서 흰 건반의 틈 일곱은 레인 경계에서 0.8px 안입니다(화면에서는 0.5px 안). 예전 그림은 4px 안이었습니다.
+- 깊이: 예전 그림은 2048×541(화면이 받침을 덜 보여 주던 때의 깊이)이었고, 새 그림은 지금의 SDVX 16:9 화면이 보여 주는 깊이만큼인 2048×827입니다. 화면이 더 보여 주는 아래는 전처럼 그림의 마지막 줄로 잇습니다.
+- 그림을 까는 규칙은 전과 같습니다: 그림에 맞는 줄(이제 8K)이고 원근 카메라(약한 원근 · SDVX · 강한 원근, 미리보기)일 때만 그림, 평면 카메라와 다른 키 모드(4K · 4K+FX · 5K · 6K · 6K+FX, 반쪽 덮기 포함)는 코드로 레인 수만큼 건반. 그리기 호출은 늘지 않았습니다(받침 한 장을 캔버스에 한 번).
+- 건반 눌림과 불빛: 누른 레인의 흰 건반이 눌려 보이는 자리(`PIANO_PICTURE_KEYS`: 건반 시작 26줄, 검은 건반 끝 463줄)와 황동 상감선의 불빛 자리는 새 그림에서 다시 쟀습니다(상감선은 전과 같은 줄에 있어 값이 그대로).
+- 전후 화면: `design-mockups/gear-concepts/piano-8k/`의 `before-*.jpg`(코드 받침) · `after-*.jpg`(새 그림), 카메라 SDVX · LOW(강한 원근) · PLANE(평면: 그림을 쓰지 않아 전후가 같음), 한눈에 보는 `sheet.jpg`(위가 전, 아래가 후; 왼쪽 SDVX, 오른쪽 LOW).
+- **사용자가 정하지 않아 채워 넣은 것:** ① 메달을 뺐습니다(위). ② 모습: 예전 그림을 참고 그림으로 함께 보낸 생성은 화면의 틀을 다시 잡아 쓸 수 없었고, 쓴 그림은 같은 글로만 그린 것입니다. 구성은 같지만 흰 건반에 옅은 세로 결이 있고 래커 턱이 예전보다 얇습니다. 결이 없는 매끈한 건반을 원하시면 다시 뽑겠습니다. ③ 그림의 깊이를 지금 화면이 보여 주는 만큼으로 늘렸습니다(위).
+
 ## 검사
 
 - `npx tsc --noEmit -p .` 통과, `npx vitest run` 498개 통과(GPT·Gemini·Grok·Claude 스킨까지).
@@ -752,10 +773,11 @@ Chromium의 추적(`contentTracing`)으로 래스터 작업 시간을, 페이지
 
 - 2026-11-17(설정 정리: 노트만 있던 노트 열 · 스킨 줄 · 긴 도움말 · 노트 색상 · 키 모드 탭): `npx tsc --noEmit -p .` 통과, `npx vitest run` 61개 파일 553개 통과(노트 · 스킨 줄 · 도움말 테스트를 고쳐 쓰고, 지운 노트 열을 가리키는 저장값이 기본 노트로 열리는지를 `skins.test.ts` · `settings.test.ts`에, 남은 노트가 열셋이고 지운 그림이 매니페스트에 없는지를 `tintArt.test.ts` · `styleArt.test.ts`에, 그래픽 호환 모드의 도움말이 어느 모드도 설명하지 않는지를 `graphicsMode.test.ts`에 추가). e2e(이 환경: 소프트웨어 GL, NVIDIA GPU 없음): `settings` · `graphicsMode` · `gamepad` · `phase2` · `input` 32개 중 22개, `phase3` 15개 중 13개 통과. 새로 쓴 것: 키 모드 탭(탭 일곱, 고른 모드의 키만 보임, ←→로 모드 · ↓로 레인, 두 탭이 같은 모드, 다른 탭을 고르면 기다리던 레인과 동시 입력 테스트가 닫힘), 도움말이 어느 기어를 골라도 같은 두 문장인지, 기어 탭의 첫 줄이 기어인지, 지운 노트를 가리키는 저장값이 기본 노트로 열리는지, 부위를 하나씩 골라 플레이한 `data-style`. 실패 12개는 이번 변경 전에도 같습니다: `gamepad.spec.ts` 228 · 282 · 310 · 355, `input.spec.ts` 81 · 157 · 246 · 302 · 600, `phase2.spec.ts` 44의 열은 브랜치를 시작한 커밋(297c7b4)의 작업 사본에서 같은 세 파일을 돌려 같은 열이 같은 자리에서 실패하는 것을 확인했고(선곡 화면을 새로 만든 뒤 낡은 단계, 그리고 이 환경에서는 채보를 만들 수 없어 플레이가 시작되지 않음), `phase3.spec.ts` 79 · 170은 위의 환경 실패입니다. 한 작업 사본에서 e2e 둘을 함께 돌리면 서버 데이터 폴더(`client/test-results/e2e-data`, 서버가 뜰 때 지움)를 같이 써서 서로의 곡이 사라집니다: 이번에는 실행마다 데이터 · 출력 폴더를 따로 둔 설정으로 돌렸습니다. 화면: 데스크톱 앱(저장소의 Electron, 1920×1080)에서 기어 · 노트 · 키 설정(4K, 7K+1S) · 게임패드 탭을 찍어 확인했고, 문서의 설정 스크린샷 넷(10 · 11 · 26 · 27)과 지운 노트가 나오던 플레이 스크린샷 열(05 · 19 · 22–25, 28–31은 타격 효과 사진으로 이름을 바꿈)을 다시 찍었습니다(42 · 43은 지움). 이 환경에서는 채보를 만들 수 없어 플레이 스크린샷은 테스트가 직접 넣은 합성 채보로 찍습니다(`screenshots.spec.ts`의 `serveShowcase`: 채보 생성기가 준비된 PC에서는 아무것도 하지 않음).
 - 2026-11-17(사이드 노트를 그림으로): `npx tsc --noEmit -p .` 통과, `npx vitest run` 557개 통과(새 테스트: 사이드 그림의 매니페스트 크기와 스타일마다 불러오기, bar의 부분별 그리기와 그림이 없을 때 코드, LED 점이 코드와 같은 줄에 켜진 · 꺼진 그림으로 놓이는지). e2e `phase3` · `graphicsLost` · `settings` 29개 중 27개 통과(실패 둘 `phase3.spec.ts:79 · 170`은 위의 환경 실패). 색을 진하게 한 뒤: `phase3` · `settings` 25개 중 23개 통과(같은 환경 실패 둘), 사이드 노트 테스트(`phase3.spec.ts:288`)는 화면에서 왼쪽 사이드 바를 그 색으로 찾으므로 보라 → 진분홍으로 고침.
+- 2026-11-17(피아노 받침 8K · 기어의 스크래치 잔재): `npx tsc --noEmit -p .` 통과, `npx vitest run` 61개 파일 555개 통과(고친 테스트: 받침 그림을 까는 줄이 8K뿐이고 사이드 레인이 제자리를 갖는 6K+FX의 여덟 레인 줄은 아닌지, 그림이 2048×827이고 원근 카메라에서 그 한 장만 그리는지, 4K 줄과 평면 카메라는 코드로 그리는지, 건반 눌림의 검은 건반 끝 463줄; 테스트의 받침 줄은 7K+1S에서 8K로; 메달의 그림 · 부품 테스트는 지움). 코드 받침 비교(위 "1. 기어의 스크래치 잔재 지움"): 672가지 모두 같음. 화면: 8K 피아노를 SDVX · LOW · FLAT · PLANE(1920×1080)과 설정의 기어 미리보기로 봄. 피아노 4K · 6K+FX와 아쿠아 8K의 받침은 지우기 전 커밋과 같은 순간의 화면에서 견줌(피아노 둘은 받침의 픽셀이 모두 같고, 아쿠아는 박자 불빛 자리의 42픽셀이 9단계 안에서 다름). `build_gears.py`를 다시 돌려 피아노의 받침 그림과 매니페스트의 그 크기만 바뀌는 것을 확인(다른 기어의 그림은 바이트까지 같음).
 
 ## 남은 것
 
-- **기어 그림의 스크래치 부분.** 2026-11-17에 7K+1S 모드와 스크래치 레인을 없애면서 스크래치 노트의 코드와 그림은 지웠지만, 기어 쪽(`deckArt.ts`의 `KeyKind` `scratch`, 피아노의 높은음자리표 메달 `media/gears/piano/medallion.png`과 그 빛, 아쿠아 건반의 분홍 줄, 클럽 코인 시트의 넷째 칸)은 지우지 않았습니다. 지금은 어디서도 불리거나 보이지 않습니다. 피아노의 받침 그림(`media/gears/piano/deck.webp`)은 7K+1S 줄에 맞춰 그린 것이라 맞는 키 모드가 없어, 피아노 받침은 언제나 코드로 그립니다. 받침 그림을 8K에 맞춰 다시 그릴지, 그림과 메달을 지울지는 정하지 않았습니다.
+- **피아노 받침 8K(2026-11-17)에서 사용자가 볼 것.** 8K + 피아노 기어로 플레이해 받침이 어울리는지(카메라 SDVX · 약한 원근 · 강한 원근: 그림, 평면: 코드 그림), 흰 건반의 옅은 세로 결과 얇아진 래커 턱이 괜찮은지, 메달이 없어도 되는지 봐 주세요. 강한 원근에서는 SDVX 각도로 그린 그림을 더 눕혀 보여 검은 건반이 조금 길어 보입니다(예전 그림도 같았음). 클럽 코인 시트의 넷째 칸(스크래치의 코인)은 그리는 곳이 없는 채로 남아 있습니다.
 - **설정 정리(2026-11-17)에서 사용자가 볼 것.** ① 1번을 "기어 없이 노트만 있는 노트 열을 지움"으로 읽었습니다. 피아노 기어(노트 없이 기어만 있음)와 타격 효과는 그대로입니다. 읽기가 달랐다면 지운 노트는 커밋 `01f462d`를 되돌려 살릴 수 있습니다(그림 파일도 기록에 남아 있음). ② 줄인 도움말 여덟의 문장은 제가 쓴 것이라 고칠 곳이 있으면 문장째로 바꾸면 됩니다. 값 설명이 아닌 긴 도움말(노트 속도 205자 등)은 그대로입니다. ③ "노트 색상"은 줄 이름만 바꿨습니다. 그 줄의 도움말, "새 프리셋으로 저장" 단추, 안내문에는 "프리셋"이라는 말이 남아 있습니다. ④ 키 모드 탭 밖에 둔 것(플레이 중 키, 턴테이블 감도 · 정지 판정, 플레이 중 버튼, 메뉴 버튼)을 탭으로 더 나눌지, 오른쪽 미리보기가 고른 키 모드를 따라가게 할지는 정하지 않았습니다(지금은 따라가지 않음). ⑤ 선곡 화면의 플레이 옵션과 같이 쓰는 줄(플레이 탭: 배치 · 게이지 등, `PlayOptions.tsx`)의 도움말은 다른 세션의 파일이라 손대지 않았습니다.
 - **기어 사라짐 재발(2026-11-16): 멈추는 자리는 찾았고(Skia의 글자 그리기 검사, 위 "기본 모드의 끊김"), 무엇이 그 검사에 걸리는지는 모릅니다.** 기본 모드를 CPU 래스터로 바꾼 것이 사용자 PC에서 끊김을 없애는지는 사용자 PC에서만 알 수 있습니다: 설정 → 연출·배경 → 그래픽 호환 모드에서 **기본**을 고르고(마지막에 쓴 모드가 OpenGL로 기억돼 있을 수 있음) 다시 시작한 뒤, 끊겼던 곡과 자리(FIRESTARTER 2:06, THE ULTIMACY 0:57 · 1:47, Big Daddy 0:25, Skyriser 1:36)를 다시 칩니다. `graphics.log`의 `start` 줄이 `mode=default switches=disable-gpu-rasterization … rasterization=disabled_software`여야 합니다. 그래도 끊기면 이번에는 `crash-stack`이 64곳까지 남아, 그 그리기를 누가 시켰는지가 보입니다.
 - 그래픽 호환 모드가 사용자 PC에서 무엇으로 그려지는지는 사용자의 로그로 확인됐습니다(OpenGL: `ANGLE_OPENGL`, 11on12: `ANGLE_D3D11on12`, DirectComposition 끄기: `dcomp=no`). 러너는 소프트웨어로 그려서 CPU 래스터가 실제 카드에서 내는 차이(`rasterization=`)는 확인하지 못했습니다. CPU 래스터의 **실제 그래픽 카드에서의 프레임 시간도 재지 못했습니다**(이 환경은 소프트웨어 전용): 플레이가 무거워지거나 선곡 화면의 긴 목록이 느려지면 "GPU 래스터" 모드가 예전 그대로입니다.

diff --git a/assets-src/PROVENANCE.md b/assets-src/PROVENANCE.md
@@ -1774,11 +1774,40 @@
 사용자 피드백("사각별은 가로 길이를 레인에 맞추고, 세로 뾰족한 부분을 늘리는 방향으로 가시성을 키워줘")으로 크리스털 세트의 `notes.png`를 같은 원본(`assets-src/styles/crystal/notes.jpg`)에서 다시 만들었습니다(새로 생성한 그림은 없음). 길게 깎은 보석 넷(건반마다)을 각각 화면 비율의 네 갈래 별로 폈습니다(`build_styles.py`의 `gem_star`): 보석의 열마다 가운데에 가까울수록 더 깊게 늘려, 팔은 보석 깊이의 2.6배, 가운데 열은 칸 전체 깊이까지(늘림이 반폭 u에 대해 (1 − u/0.2)^3으로 줄어듦), 3차 보간에 알파 가중으로 거른 뒤 435 × 500 칸에 담아 2 × 2 칸(512)으로 배치합니다(원형·별 5각과 같은 배치, 예전의 1024 × 256 줄 배치는 없앰). 가로 꼭짓점은 칸의 양 끝, 세로 꼭짓점은 칸의 위아래 끝에 닿습니다.
 
 
-## 피아노 기어 (`gears/piano`, 2026-11-06)
+## 피아노 기어 (`gears/piano`, 2026-11-06; 받침 그림은 2026-11-17에 8K 줄에 맞춰 다시 그림)
 
-사용자가 고른 시안(아래 "시안": 건반 위에 'GENERATIVE RHYTHM' 이름판이 있던 그림)에서 이름판을 뺀 여덟째 기어입니다. 받침의 코드 그림(`deckArt.ts`의 `pianoPlate`: 래커 턱과 황동 상감선, 레인마다 흰 건반, 옥타브의 검은 건반, 스크래치 레인의 치크 블록과 메달)을 얹은 실제 화면을 기준 이미지로, 다른 기어의 받침 그림과 같은 방법(위 "받침 그림")으로 받침 자리만 다시 칠했습니다. 생성 모델 · 저장 형식 · 눕히기도 위와 같습니다(`gemini-nano-banana-2.1`, 16:9 · 2K → 2752×1536 PNG, JPEG 품질 95, 색 정보 줄이지 않음; `build_gears.py`가 `deck.json`대로 2048×541 판으로 폄). 래커 · 상아 · 테두리는 코드로 칠하고, 판정 · 콤보 · 점수판 글꼴은 OFL 글꼴 Bodoni Moda입니다(`client/src/assets/fonts/README.md`).
+사용자가 고른 시안(아래 "시안": 건반 위에 'GENERATIVE RHYTHM' 이름판이 있던 그림)에서 이름판을 뺀 여덟째 기어입니다. 받침의 코드 그림(`deckArt.ts`의 `pianoPlate`: 래커 턱과 황동 상감선, 레인마다 흰 건반, 옥타브의 검은 건반, 스크래치 레인의 치크 블록과 메달)을 얹은 실제 화면을 기준 이미지로, 다른 기어의 받침 그림과 같은 방법(위 "받침 그림")으로 받침 자리만 다시 칠했습니다. 생성 모델 · 저장 형식 · 눕히기도 위와 같습니다(`gemini-nano-banana-2.1`, 16:9 · 2K → 2752×1536 PNG, JPEG 품질 95, 색 정보 줄이지 않음; `build_gears.py`가 `deck.json`대로 2048×541 판으로 폄). 래커 · 상아 · 테두리는 코드로 칠하고, 판정 · 콤보 · 점수판 글꼴은 OFL 글꼴 Bodoni Moda입니다(`client/src/assets/fonts/README.md`). 2026-11-17에 받침 그림을 8K 줄에 맞춰 다시 그렸고(바로 아래: 2048×827), 스크래치 레인의 치크 블록에 서던 메달은 없앴습니다.
 
-### `gears/piano/deck.jpg`
+### `gears/piano/deck.jpg` (2026-11-17, 8K 줄: 지금 게임에 든 그림)
+
+사용자의 요청("피아노 기어 받침은 8K용으로 다시 그려줘")으로 다시 그렸습니다. 2026-11-17에 7K+1S 모드와 스크래치 레인을 없애면서, 그 줄(스크래치 레인의 치크 블록 + 흰 건반 일곱)에 맞춰 그린 아래의 그림은 맞는 키 모드가 없어 깔리지 않았습니다.
+
+- 용도: 피아노의 받침 전체 → `gears/piano/deck.webp` 2048×827(60,296바이트, WebP 품질 90). 게임은 이 그림을 8K 줄(흰 건반 여덟이 왼쪽 벽에서 오른쪽 벽까지)의 원근 카메라에서만 깔고, 다른 키 모드 · 사이드 레인이 제자리를 갖는 줄 · 평면 카메라에서는 코드로 레인 수만큼 건반을 그립니다(`deckFromPicture`, `PICTURE_ROWS`).
+- 크기 · 기준 이미지: 16:9 · 2K · 피아노 기어(코드 받침)를 얹은 실제 화면(8K, SDVX, 1920×1080, 타격 효과 없음, HUD 숨김)의 아래쪽(x 320–1600, y 360–1080 → 1280×720) 한 장. 예전 그림은 보내지 않았습니다(아래 "쓰지 않은 시도").
+- 만든 곳: Google Cloud Vertex AI의 Gemini 이미지 생성(`gemini-nano-banana-2.1`) · 사용자의 Google Cloud 프로젝트 · 2K 한 장 약 $0.06(받은 안내의 단가로 어림한 값: 응답이 알려 주는 것은 토큰 수뿐이며 이 생성은 4,511토큰)
+- 날짜: 2026-11-17 08:18 UTC(`piano8k-b1`)
+- 생성 결과(PNG, 2752×1536): 4,419,512바이트 · sha256 앞 16자리 `979a3c4c28dd6e18` · 저장한 JPEG(품질 95, 색 정보 줄이지 않음): 793,897바이트
+- 높은음자리표 메달: 넣지 않았습니다. 메달은 스크래치 레인의 치크 블록에 서 있던 것인데, 8K는 흰 건반 여덟이 받침의 폭을 다 채워 치크 블록이 없습니다(프롬프트에도 메달 · 치크 블록이 없다고 적음).
+- 맞추기: 받침 평면이 화면의 어디에 놓이는지는 게임에서 쟀습니다. 점 격자(16 × 17개)를 받침 그림으로 깔아 같은 화면(8K · SDVX · 1920×1080)을 찍고, 화면에서 찾은 점 224개로 그림 px → 화면 px 변환을 구했습니다(오차 평균 0.06px, 최대 0.12px). 생성은 기준 이미지의 틀을 그대로 지켜(기준 이미지의 2.15배, 왼쪽 위 모서리 기준) 따로 맞출 것이 없었고, 흰 건반의 틈이 레인 경계보다 0.9px(생성 px) 왼쪽에 있어 그만큼만 옮겼습니다. 생성이 기준 이미지보다 조금 넓은 비율(2752×1536)이라 화면 맨 아래 5.6px(화면 px)은 생성에 없고, 그림은 생성이 온전히 보여 주는 827줄까지입니다(그 아래는 게임이 그림의 마지막 줄로 이음).
+- 펴기: `assets-src/gears/piano/deck.json`의 `h`(받침 평면 px → 생성 px) · `top` 35.8 · `room` 237.924 · `inset` 0대로 `scripts/assets/build_gears.py`의 `deck_flat`이 폅니다. 다른 받침 그림은 벽 발치를 피해 양옆 1.5px(평면)을 안쪽에서 읽지만(`inset` 기본값), 피아노는 건반의 틈이 레인 경계에 놓여야 해서 벽까지 그대로 폅니다.
+- 잰 것(펴진 2048×827 그림에서): 흰 건반 사이의 틈 일곱이 256px마다의 레인 경계에서 0.8px 안(대부분 0.4px 안) · 황동 상감선 6–20줄 · 흰 건반은 26줄부터 · 검은 건반의 가까운 끝 463줄(`deckArt.ts`의 `PIANO_PICTURE_KEYS`, 상감선 불빛의 자리 `gearLights.ts`의 `pianoLights`).
+- 프롬프트:
+
+  > Image 1 is the lower part of a frame of this rhythm game's play screen. Keep its framing exactly: the same camera, the same zoom, the same crop, every line where it is (the lanes, the red judge line, the side walls, the deck's edges); do not zoom in, crop, widen or recompose. Repaint ONLY the gear's deck: the area under the red judge line and its narrow dark gap, between the inner edges of the two side walls, down to the bottom edge of the image. Keep every other pixel exactly as it is: the lanes, the notes, the red judge line, the side walls, the dark background.
+  >
+  > The framing stays exactly as image 1 has it: the red judge line crosses the image at 58% of its height and stays exactly there, the lanes above it keep their length and every note stays where it is, and the deck fills only the band from just under the judge line to the image's bottom edge (about the bottom two fifths of the image). The keyboard is seen from exactly as far as image 1 shows it: each white key exactly as wide as the lane above it, the dark gap between two white keys exactly under the line between two lanes, every key as large as image 1 draws it. Do not move the camera closer, do not enlarge the keyboard, do not show the keys' front ends.
+  >
+  > The deck is the keyboard end of a concert grand piano in high-gloss polished ebony lacquer, lying flat like a console between the walls and seen exactly from this camera: the same perspective and the same vanishing lines as the track, the camera looking down at it from above and behind at about 50 degrees, its left and right edges running along the walls' inner edges. Keep every part where image 1 has it and give each one its real depth:
+  > - its top edge, right under the judge line's gap, is a narrow bevelled lip of polished black lacquer catching the light, with a thin brass inlay line along its foot; the keys start right under it. There is no fallboard and no name board: nothing between the lip and the keys;
+  > - the keyboard: eight white keys, one under each of the eight lanes, filling the deck's whole width from the left wall to the right wall: real piano keys of warm ivory with a satin finish, separated by fine dark gaps, running toward the viewer exactly as image 1 draws them, cut by the image's bottom edge. There is no block, no panel and no ornament at either side of the keys: the first white key starts at the left wall and the eighth ends at the right wall;
+  > - the five black keys between the white keys in an octave's pattern, exactly where image 1 has them: counted from the left, between the 1st and 2nd white keys, the 2nd and 3rd, the 4th and 5th, the 5th and 6th, and the 6th and 7th; none between the 3rd and 4th and none between the 7th and 8th. Raised glossy ebony keys with tapered sides and a sloped front end catching the light, as long as image 1 draws them, clearly standing above the white keys and throwing soft shadows on them.
+  >
+  > Each raised part throws a soft shadow down and to the right; one soft key light from the top-left; crisp edges and fine material detail, the finish of a commercial console game. No medallion, no emblem, no text, letters, numbers or logos anywhere. Nothing over the lanes.
+
+- 쓰지 않은 시도: `piano8k-a1`(같은 시각, 약 $0.06, 7,042토큰, PNG 4,407,887바이트 · sha256 앞 16자리 `e454be83f7a4f7fe`). 위 프롬프트에 예전 받침 그림의 건반 부분(메달이 없는 오른쪽, 1640×458)을 둘째 그림으로 붙이고 "재질 · 마감 · 빛만 가져오고 틀 · 크기 · 건반 수는 첫째 그림의 것"이라는 문단을 더한 것인데, 판정선을 위로 올리고 건반을 크게(흰 건반 아홉 남짓, 검은 건반 여섯) 그려 화면의 틀을 다시 잡았습니다(맞출 수 없음). 그래서 쓴 그림은 예전 그림을 보지 않고 같은 글로만 그린 것입니다: 광택 래커 턱 · 황동 상감선 · 상아색 흰 건반 · 앞이 비스듬한 광택 검은 건반이라는 구성은 같고, 흰 건반에 예전 그림에 없던 옅은 세로 결(상아의 결)이 있으며 래커 턱이 예전보다 얇습니다.
+- 비용: 쓴 1장 약 $0.06, 쓰지 않은 시도 1장 약 $0.06, 합해 약 $0.12
+
+### `gears/piano/deck.jpg` (2026-11-06, 7K+1S 줄: 2026-11-17에 위 그림으로 바꿈)
 
 - 용도: 피아노의 받침 전체 → `gears/piano/deck.webp` 2048×541(40,282바이트). 건반이 레인을 따르므로 게임은 이 그림을 7K+1S 줄(스크래치 + 흰 건반 일곱)에서만 깔고, 다른 키 모드와 반쪽 덮기에서는 코드로 레인 수만큼 건반을 그립니다(`deckFromPicture`).
 - 크기 · 기준 이미지: 16:9 · 2K · 피아노 기어(코드 받침)를 얹은 실제 화면(7K+1S, SDVX, 1920×1080, 타격 효과 없음)의 아래쪽(x 320–1600, y 360–1080 → 1280×720)
@@ -1799,7 +1828,9 @@
   >
   > Each raised part throws a soft shadow down and to the right; one soft key light from the top-left; crisp edges and fine material detail, the finish of a commercial console game. No text, letters, numbers or logos anywhere. Nothing over the lanes.
 
-### `gears/piano/medallion.png` (생성하지 않음)
+### `gears/piano/medallion.png` (생성하지 않음; 2026-11-17에 없앰)
+
+스크래치 레인의 치크 블록에 서던 메달이라 그 레인과 함께 없앴습니다(그림 파일 · 매니페스트 항목 · `build_gears.py`의 `cut_flat` · 코드 그림과 불빛). 아래는 그때의 기록입니다.
 
 - 용도: 코드로 그리는 받침(평면 카메라, 7K+1S가 아닌 줄은 메달이 없음)의 스크래치 레인 치크 블록에 세우는 높은음자리표 황동 메달 → 256×265(112,981바이트)
 - 만든 곳: `build_gears.py`가 펴진 피아노 받침에서 메달의 상자(x 72–296, y 109–387, 받침 그림 px)를 잘라 받침 그림의 트랙 방향 늘임(1.2)만큼 세로를 줄이고, 상자에 맞는 타원으로 오림(`cut_flat`)
